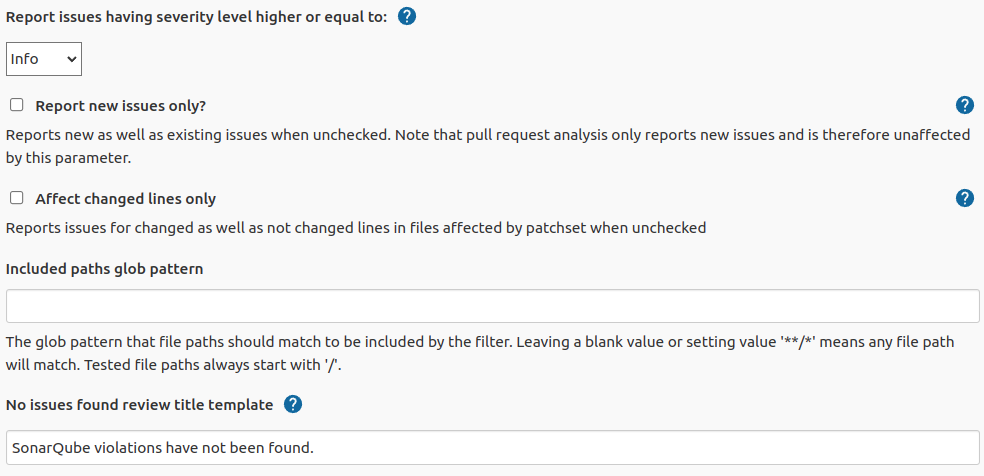
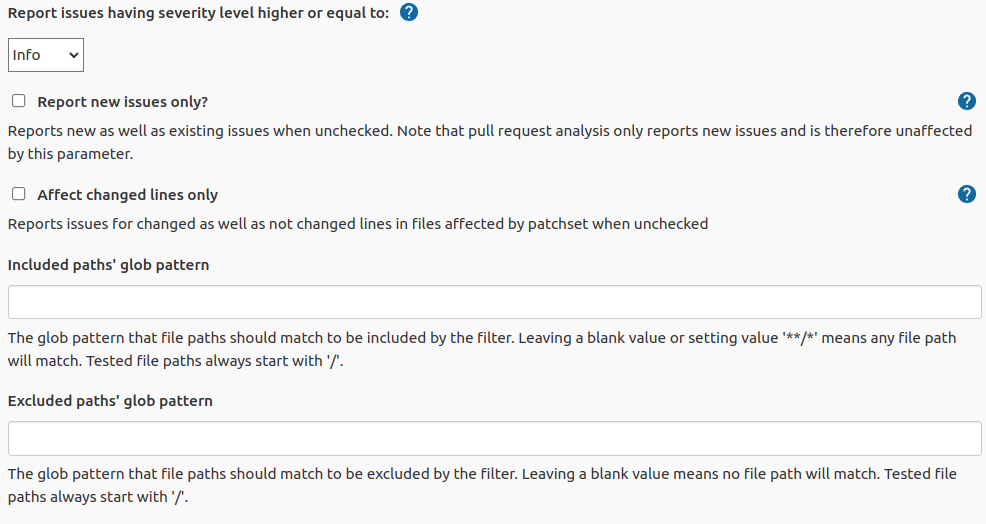
Allow to exclude score and review issues by glob pattern

diff --git a/src/test/java/org/jenkinsci/plugins/sonargerrit/gerrit/ReviewTest.java b/src/test/java/org/jenkinsci/plugins/sonargerrit/gerrit/ReviewTest.java
@@ -41,7 +41,7 @@ class ReviewTest {
           + "-Dsonar.pullrequest.base=${env.GERRIT_BRANCH} "
           + "-Dsonar.pullrequest.branch=${env.GERRIT_REFSPEC}";
   private static final String FILEPATH =
-      "src/main/java/org/example/UselessConstructorDeclaration.java";
+      "child1/src/main/java/org/example/UselessConstructorDeclaration.java";
 
   private static Cluster cluster;
   private static GerritGit git;
@@ -54,15 +54,35 @@ class ReviewTest {
     git = GerritGit.createAndCloneRepository(cluster.gerrit(), workTree);
 
     git.addAndCommitFile(
-        "pom.xml",
-        "<?xml version=\"1.0\" encoding=\"UTF-8\"?>\n"
-            + "<project>\n"
-            + "  <modelVersion>4.0.0</modelVersion>\n"
-            + "\n"
-            + "  <groupId>org.example</groupId>\n"
-            + "  <artifactId>example</artifactId>\n"
-            + "  <version>1.0-SNAPSHOT</version>\n"
-            + "</project>");
+            "pom.xml",
+            "<?xml version=\"1.0\" encoding=\"UTF-8\"?>\n"
+                + "<project>\n"
+                + "  <modelVersion>4.0.0</modelVersion>\n"
+                + "\n"
+                + "  <groupId>org.example</groupId>\n"
+                + "  <artifactId>example</artifactId>\n"
+                + "  <version>1.0-SNAPSHOT</version>\n"
+                + "  <packaging>pom</packaging>"
+                + "\n"
+                + "<modules>\n"
+                + "<module>child1</module>"
+                + "</modules>"
+                + "</project>")
+        .addAndCommitFile(
+            "child1/pom.xml",
+            "<?xml version=\"1.0\" encoding=\"UTF-8\"?>\n"
+                + "<project>\n"
+                + "  <modelVersion>4.0.0</modelVersion>\n"
+                + "\n"
+                + "<parent>\n"
+                + "  <groupId>org.example</groupId>\n"
+                + "  <artifactId>example</artifactId>\n"
+                + "  <version>1.0-SNAPSHOT</version>\n"
+                + "</parent>\n"
+                + "\n"
+                + "  <artifactId>child1</artifactId>\n"
+                + "\n"
+                + "</project>");
 
     git.push();
 
@@ -90,7 +110,7 @@ class ReviewTest {
   @DisplayName("STANDARD comment type")
   void test1() throws Exception {
     GerritChange change = createChangeViolatingS1186();
-    triggerAndAssertSuccess(createPipelineJob(change, ReviewCommentType.STANDARD, null));
+    triggerAndAssertSuccess(createPipelineJob(change, ReviewCommentType.STANDARD, null, null));
 
     ChangeInfo changeDetail = change.getDetail();
     assertThat(changeDetail.labels.get(GerritServer.CODE_QUALITY_LABEL).all)
@@ -107,7 +127,7 @@ class ReviewTest {
   @DisplayName("ROBOT comment type")
   void test2() throws Exception {
     GerritChange change = createChangeViolatingS1186();
-    triggerAndAssertSuccess(createPipelineJob(change, ReviewCommentType.ROBOT, null));
+    triggerAndAssertSuccess(createPipelineJob(change, ReviewCommentType.ROBOT, null, null));
 
     ChangeInfo changeDetail = change.getDetail();
     assertThat(changeDetail.labels.get(GerritServer.CODE_QUALITY_LABEL).all)
@@ -130,7 +150,7 @@ class ReviewTest {
   @DisplayName("Review tag is autogenerated:sonar")
   void test3() throws Exception {
     GerritChange change = createChangeViolatingS1186();
-    triggerAndAssertSuccess(createPipelineJob(change, ReviewCommentType.STANDARD, null));
+    triggerAndAssertSuccess(createPipelineJob(change, ReviewCommentType.STANDARD, null, null));
 
     ChangeInfo changeDetail = change.getDetail();
     assertThat(changeDetail.labels.get(GerritServer.CODE_QUALITY_LABEL).all)
@@ -143,7 +163,7 @@ class ReviewTest {
   @DisplayName("Issue ignored because of path glob pattern")
   void test4() throws Exception {
     GerritChange change = createChangeViolatingS1186();
-    triggerAndAssertSuccess(createPipelineJob(change, ReviewCommentType.ROBOT, "/[!src]/**"));
+    triggerAndAssertSuccess(createPipelineJob(change, ReviewCommentType.ROBOT, "/child2/**", null));
 
     ChangeInfo changeDetail = change.getDetail();
     assertThat(changeDetail.labels.get(GerritServer.CODE_QUALITY_LABEL).all)
@@ -158,7 +178,7 @@ class ReviewTest {
   @DisplayName("Issue considered despite of path glob pattern")
   void test5() throws Exception {
     GerritChange change = createChangeViolatingS1186();
-    triggerAndAssertSuccess(createPipelineJob(change, ReviewCommentType.ROBOT, "/src/**"));
+    triggerAndAssertSuccess(createPipelineJob(change, ReviewCommentType.ROBOT, null, "/child2/**"));
 
     ChangeInfo changeDetail = change.getDetail();
     assertThat(changeDetail.labels.get(GerritServer.CODE_QUALITY_LABEL).all)
@@ -184,12 +204,20 @@ class ReviewTest {
 
   @SuppressWarnings("rawtypes")
   private Job createPipelineJob(
-      GerritChange change, ReviewCommentType commentType, String includedPathsGlobPattern)
+      GerritChange change,
+      ReviewCommentType commentType,
+      String includedPathsGlobPattern,
+      String excludedPathsGlobPattern)
       throws IOException {
     WorkflowJob job = cluster.jenkinsRule().createProject(WorkflowJob.class);
     int patchSetNumber = 1;
     String quotedIncludedPathsGlobPattern =
         Optional.ofNullable(includedPathsGlobPattern)
+            .map(s -> StringUtils.wrap(s, "'"))
+            .orElse(null);
+
+    String quotedExcludedPathsGlobPattern =
+        Optional.ofNullable(excludedPathsGlobPattern)
             .map(s -> StringUtils.wrap(s, "'"))
             .orElse(null);
     String script =
@@ -227,7 +255,8 @@ class ReviewTest {
             + "severity: 'MINOR',\n"
             + "newIssuesOnly: false,\n"
             + "changedLinesOnly: true,\n"
-            + String.format("includedPathsGlobPattern: %s\n", quotedIncludedPathsGlobPattern)
+            + String.format("includedPathsGlobPattern: %s, \n", quotedIncludedPathsGlobPattern)
+            + String.format("excludedPathsGlobPattern: %s\n", quotedExcludedPathsGlobPattern)
             + "]\n" // issueFilterConfig
             + "],\n" // reviewConfig
             + "scoreConfig: [\n"
@@ -235,7 +264,8 @@ class ReviewTest {
             + "severity: 'MINOR',\n"
             + "newIssuesOnly: false,\n"
             + "changedLinesOnly: true,\n"
-            + String.format("includedPathsGlobPattern: %s\n", quotedIncludedPathsGlobPattern)
+            + String.format("includedPathsGlobPattern: %s,\n", quotedIncludedPathsGlobPattern)
+            + String.format("excludedPathsGlobPattern: %s\n", quotedExcludedPathsGlobPattern)
             + "],\n" // issueFilterConfig
             + String.format("category: '%s',\n", GerritServer.CODE_QUALITY_LABEL)
             + "noIssuesScore: 1,\n"

diff --git a/src/main/java/org/jenkinsci/plugins/sonargerrit/sonar/ByGlobPatternPredicate.java b/src/main/java/org/jenkinsci/plugins/sonargerrit/sonar/ByGlobPatternPredicate.java
@@ -10,14 +10,33 @@ import org.apache.commons.lang3.StringUtils;
 public class ByGlobPatternPredicate implements Predicate<Issue> {
 
   private final PathMatcher pathMatcher;
+  private final boolean negated;
 
   public ByGlobPatternPredicate(String pattern) {
-    this.pathMatcher = FileSystems.getDefault().getPathMatcher("glob:" + pattern);
+    this(pattern, false);
+  }
+
+  public ByGlobPatternPredicate(String pattern, boolean negated) {
+    this(FileSystems.getDefault().getPathMatcher("glob:" + pattern), negated);
+  }
+
+  public ByGlobPatternPredicate(PathMatcher pathMatcher, boolean negated) {
+    this.pathMatcher = pathMatcher;
+    this.negated = negated;
+  }
+
+  public ByGlobPatternPredicate negate() {
+    return new ByGlobPatternPredicate(pathMatcher, !negated);
   }
 
   @Override
   public boolean apply(Issue input) {
     String filepath = StringUtils.prependIfMissing(input.getFilepath(), "/");
-    return pathMatcher.matches(Paths.get(filepath));
+    boolean matched = pathMatcher.matches(Paths.get(filepath));
+    if (negated) {
+      return !matched;
+    } else {
+      return matched;
+    }
   }
 }

diff --git a/src/main/java/org/jenkinsci/plugins/sonargerrit/sonar/IssueFilterConfig.java b/src/main/java/org/jenkinsci/plugins/sonargerrit/sonar/IssueFilterConfig.java
@@ -20,6 +20,7 @@ public class IssueFilterConfig extends AbstractDescribableImpl<IssueFilterConfig
   private boolean newIssuesOnly;
   private boolean changedLinesOnly;
   private String includedPathsGlobPattern;
+  private String excludedPathsGlobPattern;
 
   public IssueFilterConfig(String severity, boolean newIssuesOnly, boolean changedLinesOnly) {
     setSeverity(severity);
@@ -69,6 +70,16 @@ public class IssueFilterConfig extends AbstractDescribableImpl<IssueFilterConfig
   @DataBoundSetter
   public void setIncludedPathsGlobPattern(String includedPathsGlobPattern) {
     this.includedPathsGlobPattern = includedPathsGlobPattern;
+  }
+
+  @Nullable
+  public String getExcludedPathsGlobPattern() {
+    return excludedPathsGlobPattern;
+  }
+
+  @DataBoundSetter
+  public void setExcludedPathsGlobPattern(String excludedPathsGlobPattern) {
+    this.excludedPathsGlobPattern = excludedPathsGlobPattern;
   }
 
   @Override

diff --git a/src/test/java/org/jenkinsci/plugins/sonargerrit/ConfigRoundTripTest.java b/src/test/java/org/jenkinsci/plugins/sonargerrit/ConfigRoundTripTest.java
@@ -319,9 +319,13 @@ class ConfigRoundTripTest {
             "reviewConfig.issueFilterConfig.changedLinesOnly",
             "reviewConfig.issueFilterConfig.newIssuesOnly",
             "reviewConfig.issueFilterConfig.severity",
+            "reviewConfig.issueFilterConfig.includedPathsGlobPattern",
+            "reviewConfig.issueFilterConfig.excludedPathsGlobPattern",
             "scoreConfig.issueFilterConfig.changedLinesOnly",
             "scoreConfig.issueFilterConfig.newIssuesOnly",
             "scoreConfig.issueFilterConfig.severity",
+            "scoreConfig.issueFilterConfig.includedPathsGlobPattern",
+            "scoreConfig.issueFilterConfig.excludedPathsGlobPattern",
             "scoreConfig.noIssuesScore",
             "scoreConfig.issuesScore",
             "scoreConfig.category",

diff --git a/src/main/java/org/jenkinsci/plugins/sonargerrit/sonar/IssueFilter.java b/src/main/java/org/jenkinsci/plugins/sonargerrit/sonar/IssueFilter.java
@@ -51,6 +51,11 @@ public class IssueFilter {
       toBeApplied.add(new ByGlobPatternPredicate(includedPathsGlobPattern));
     }
 
+    String excludedPathsGlobPattern = filterConfig.getExcludedPathsGlobPattern();
+    if (excludedPathsGlobPattern != null) {
+      toBeApplied.add(new ByGlobPatternPredicate(excludedPathsGlobPattern).negate());
+    }
+
     return Iterables.filter(issues, Predicates.and(toBeApplied));
   }
 }

diff --git a/README.md b/README.md
@@ -192,6 +192,7 @@ It is possible to filter issues by:
 3. Changed lines only - when only several lines are changed in a commit user may not want other lines to be commented by
    Gerrit. With "Add comments to changed lines only" unchanged in the commit lines will not be commented in Gerrit.
 4. Included paths' glob pattern - The glob pattern that file paths should match to be included by the filter. Leaving a blank value or setting value `**/*` means any file path will match. Tested file paths always start with `/`.
+5. Excluded paths' glob pattern - The glob pattern that file paths should match to be excluded by the filter. Leaving a blank value means no file path will match. Tested file paths always start with `/`.
 
 ![Filter settings](doc/filter-settings.png)
 
@@ -328,6 +329,7 @@ node {
                                  newIssuesOnly   : false,
                                  changedLinesOnly: false,
                                  includedPathsGlobPattern: null,
+                                 excludedPathsGlobPattern: null,
                          ],
                          noIssuesTitleTemplate  : 'SonarQube violations have not been found.',
                          someIssuesTitleTemplate: '<total_count> SonarQube violations have been found.',
@@ -339,6 +341,7 @@ node {
                                  newIssuesOnly   : false,
                                  changedLinesOnly: false,
                                  includedPathsGlobPattern: null,
+                                 excludedPathsGlobPattern: null,
                          ],
                          category         : 'Code-Review',
                          noIssuesScore    : 0,
@@ -407,6 +410,7 @@ node {
                                  newIssuesOnly   : false,
                                  changedLinesOnly: false,
                                  includedPathsGlobPattern: null,
+                                 excludedPathsGlobPattern: null,
                          ],
                          noIssuesTitleTemplate  : 'SonarQube violations have not been found.',
                          someIssuesTitleTemplate: '<total_count> SonarQube violations have been found.',
@@ -418,6 +422,7 @@ node {
                                  newIssuesOnly   : false,
                                  changedLinesOnly: false,
                                  includedPathsGlobPattern: null,
+                                 excludedPathsGlobPattern: null,
                          ],
                          category         : 'Code-Review',
                          noIssuesScore    : 0,
